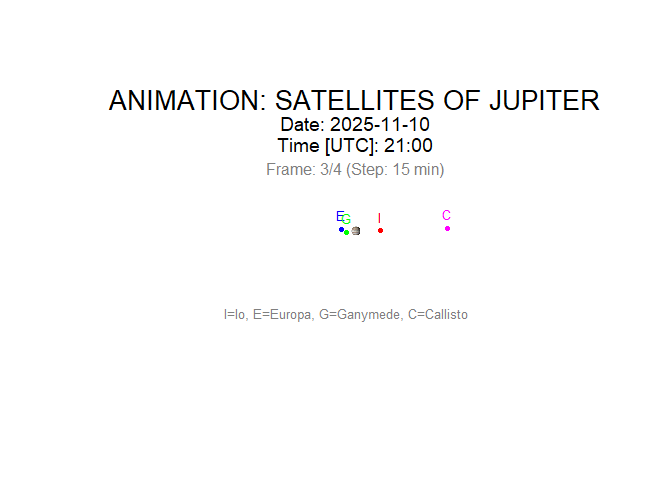
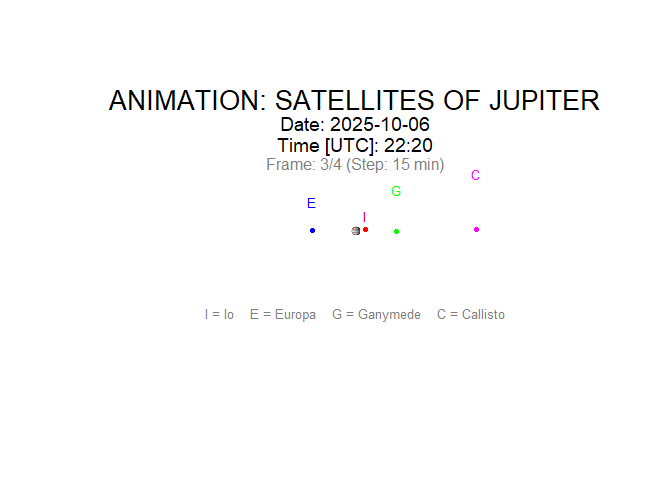
Fix overlapping moon labels
resolve #8

diff --git a/README.md b/README.md
@@ -51,7 +51,7 @@ You can install the development version of galisats from \[GitHub\]
 devtools::install_github("LechJaszowski/galilean_satellites")
 ```
 
-## Example
+## Examples
 
 There are examples of using `galsat()`, `galsat_animate()` and
 `delta_t()` functions:
@@ -68,7 +68,7 @@ galsat(2025, 10, 13, 21, 40)
     #> 2   Europa  -8.417919  0.1080519   243.92834
     #> 3 Ganymede   6.644450 -0.3518624    26.35374
     #> 4 Callisto -24.735531  0.2536266   248.65218
-    galsat_animate(2025, 11, 10, 20, 30, duration_hours = 1, time_step_minutes = 15)
+    galsat_animate(2025, 10, 6, 21, 50, duration_hours = 1, time_step_minutes = 15)
 
 <img src="man/figures/README-example-2.png" width="100%" /><img src="man/figures/README-example-3.png" width="100%" /><img src="man/figures/README-example-4.png" width="100%" /><img src="man/figures/README-example-5.png" width="100%" /><img src="man/figures/README-example-6.png" width="100%" /><img src="man/figures/README-example-7.png" width="100%" /><img src="man/figures/README-example-8.png" width="100%" /><img src="man/figures/README-example-9.png" width="100%" />
 
